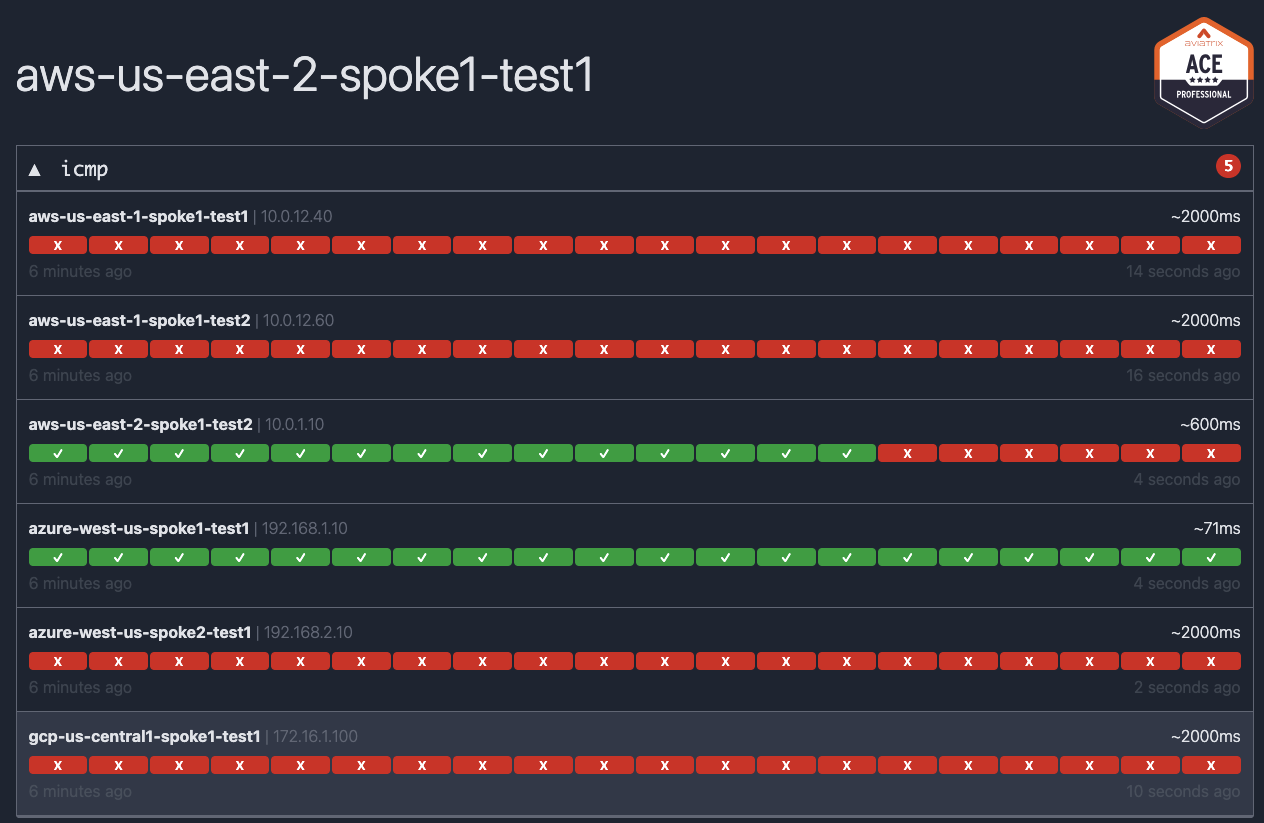
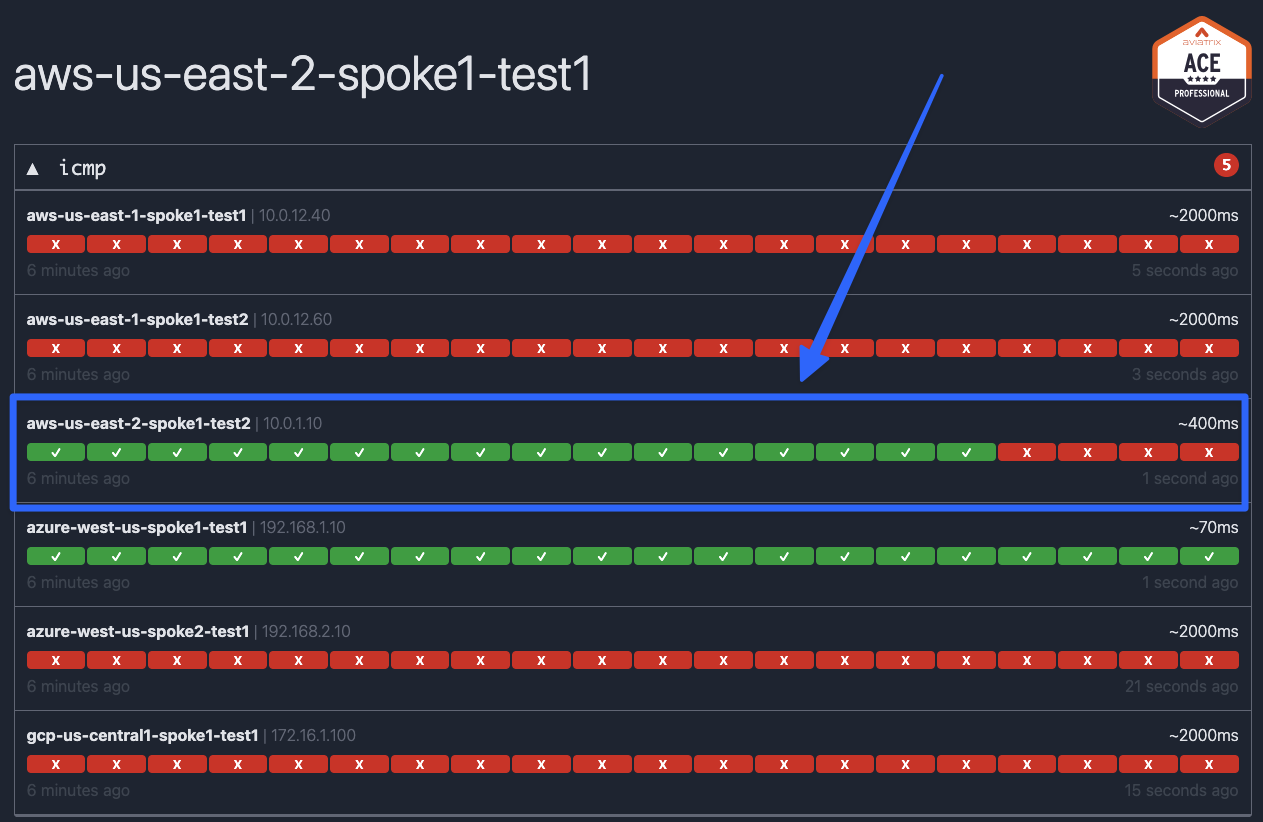
update for pro

diff --git a/ace_pro/docs/lab11.md b/ace_pro/docs/lab11.md
@@ -391,7 +391,7 @@ align: center
 Ping
 ```
 
-**aws-us-east-2-spoke1-test2** can successfully ping **aws-us-east-2-spoke1-test1**, because the communication occurs inside th VPC, without involving the Spoke Gateway.
+**aws-us-east-2-spoke1-test1** can successfully ping **aws-us-east-2-spoke1-test<span style='color:red'>2</span></summary>** because the communication occurs within the VPC, bypassing the Spoke Gateway.
 
 ### 5.4 SG Orchestration
 
@@ -415,8 +415,10 @@ align: center
 Outcomes
 ```
 
+Based on the outcome above, you will not see 10.0.1.10 (aws-us-east-2-spoke1-test2) because test2 belongs to bu2, resulting in no match with the _intra-icmp-bu1_ rule.
+
 ```{warning}
-The instance **aws-us-east-2-spoke1-test1** is in the same VPC. Although these two instances have been deployed in <ins>two distinct and separate Smart Groups</ins>, the communication will occur until you don't enable the `"Security Group(SG) Orchestration"` (aka **_intra-vpc separation_**).
+The instances **aws-us-east-2-spoke1-test1** and **aws-us-east-2-spoke1-test2** are in the same VPC. Although these two instances have been deployed in <ins>two distinct and separate Smart Groups</ins>, the communication will occur until you don't enable the `"Security Group(SG) Orchestration"` (aka **_intra-vpc separation_**).
 ```
 
 Go to **CoPilot > Security > Distributed Cloud Firewall > Settings** and click on the `"Manage"` button, inside the `"Security Group (SG) Orchestration"` field.
@@ -451,6 +453,10 @@ Gatus
 
 The ping to test2 will gradually fail!
 
+```{note}
+SSH traffic will also fail!
+```
+
 ### 5.6 SG Orchestration Verification Using the SSH Client <span style='color:#33ECFF'>(BONUS)</span></summary>
 
 Relaunch the ping from **aws-us-east-2-spoke1-<span style='color:#479608'>test1</span>** towards **aws-us-east-2-spoke1-<span style='color:red'>test2</span>**. 
@@ -464,6 +470,10 @@ Ping fails
 
 ```{important}
 This time the ping fails. You have achieved a complete separation between Smart Groups deployed in the same VPC in AWS US-EAST-2 region, thanks to the Security Group Orchestration carried out by the **Aviatrix Controller**.
+```
+
+```{note}
+SSH traffic will also fail!
 ```
 
 ### 5.7 Verify SSH within bu1 Using the Gatus App
